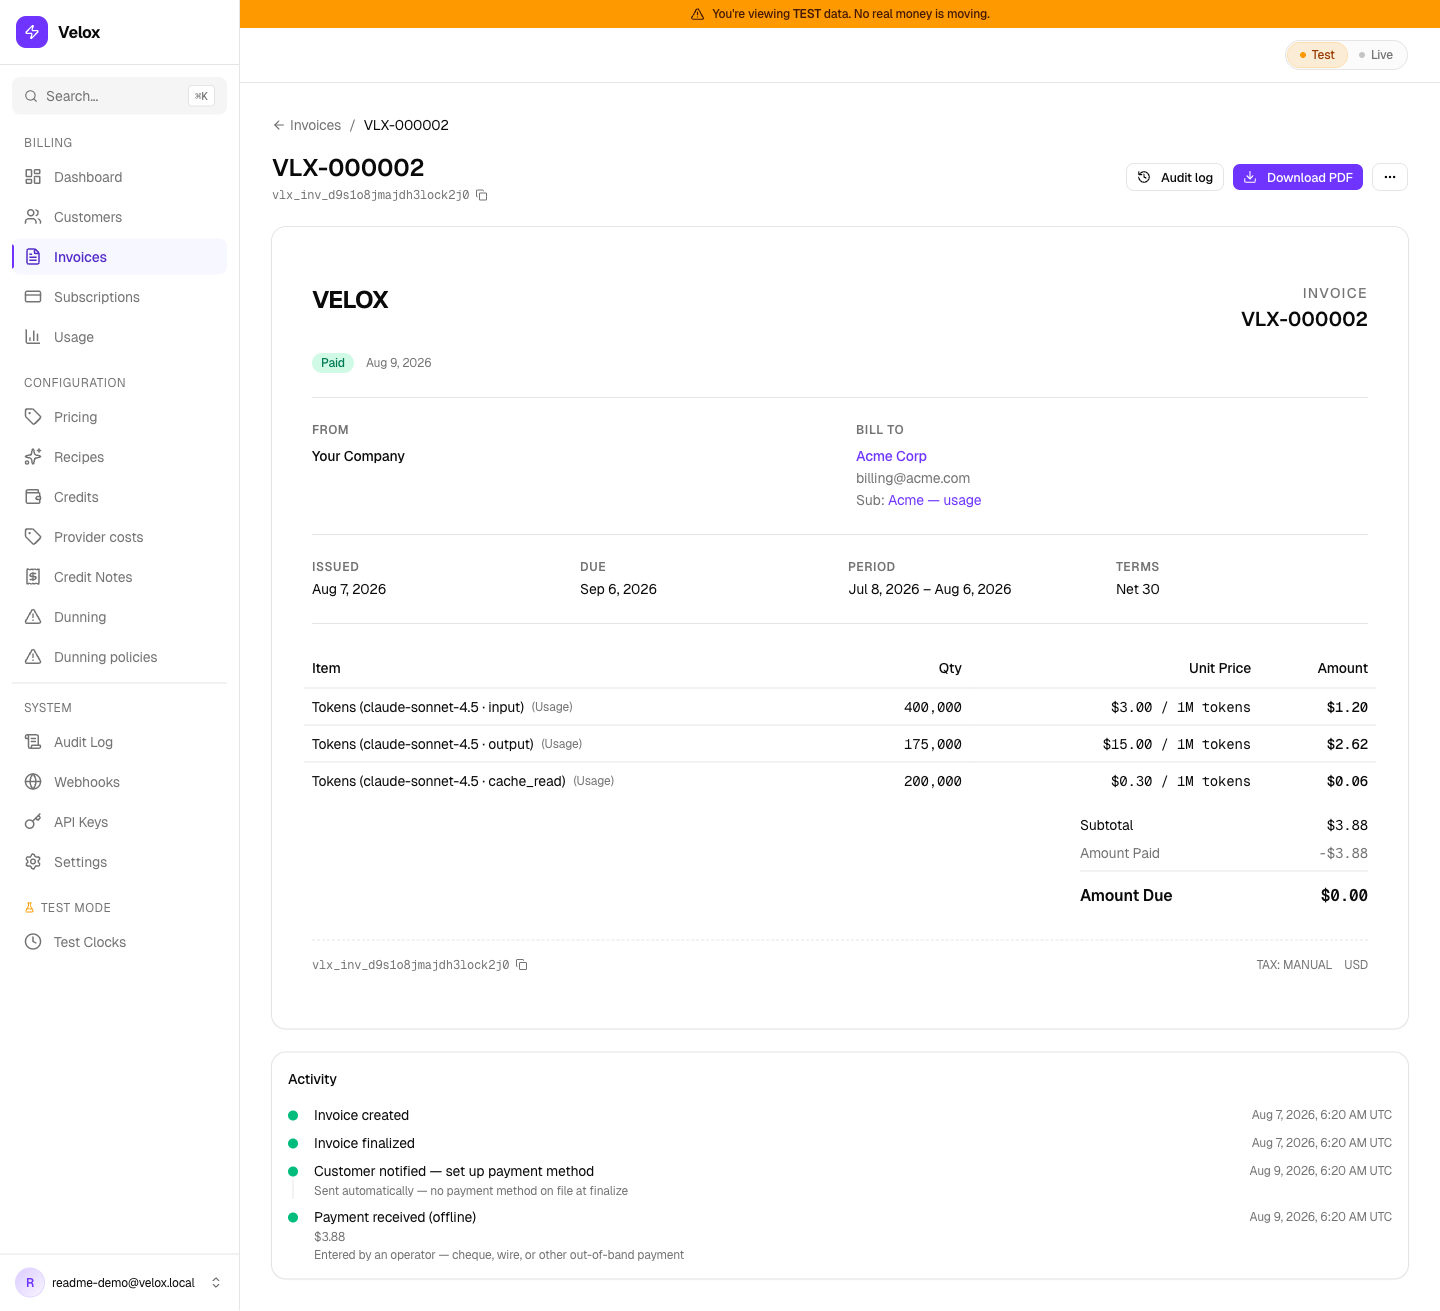
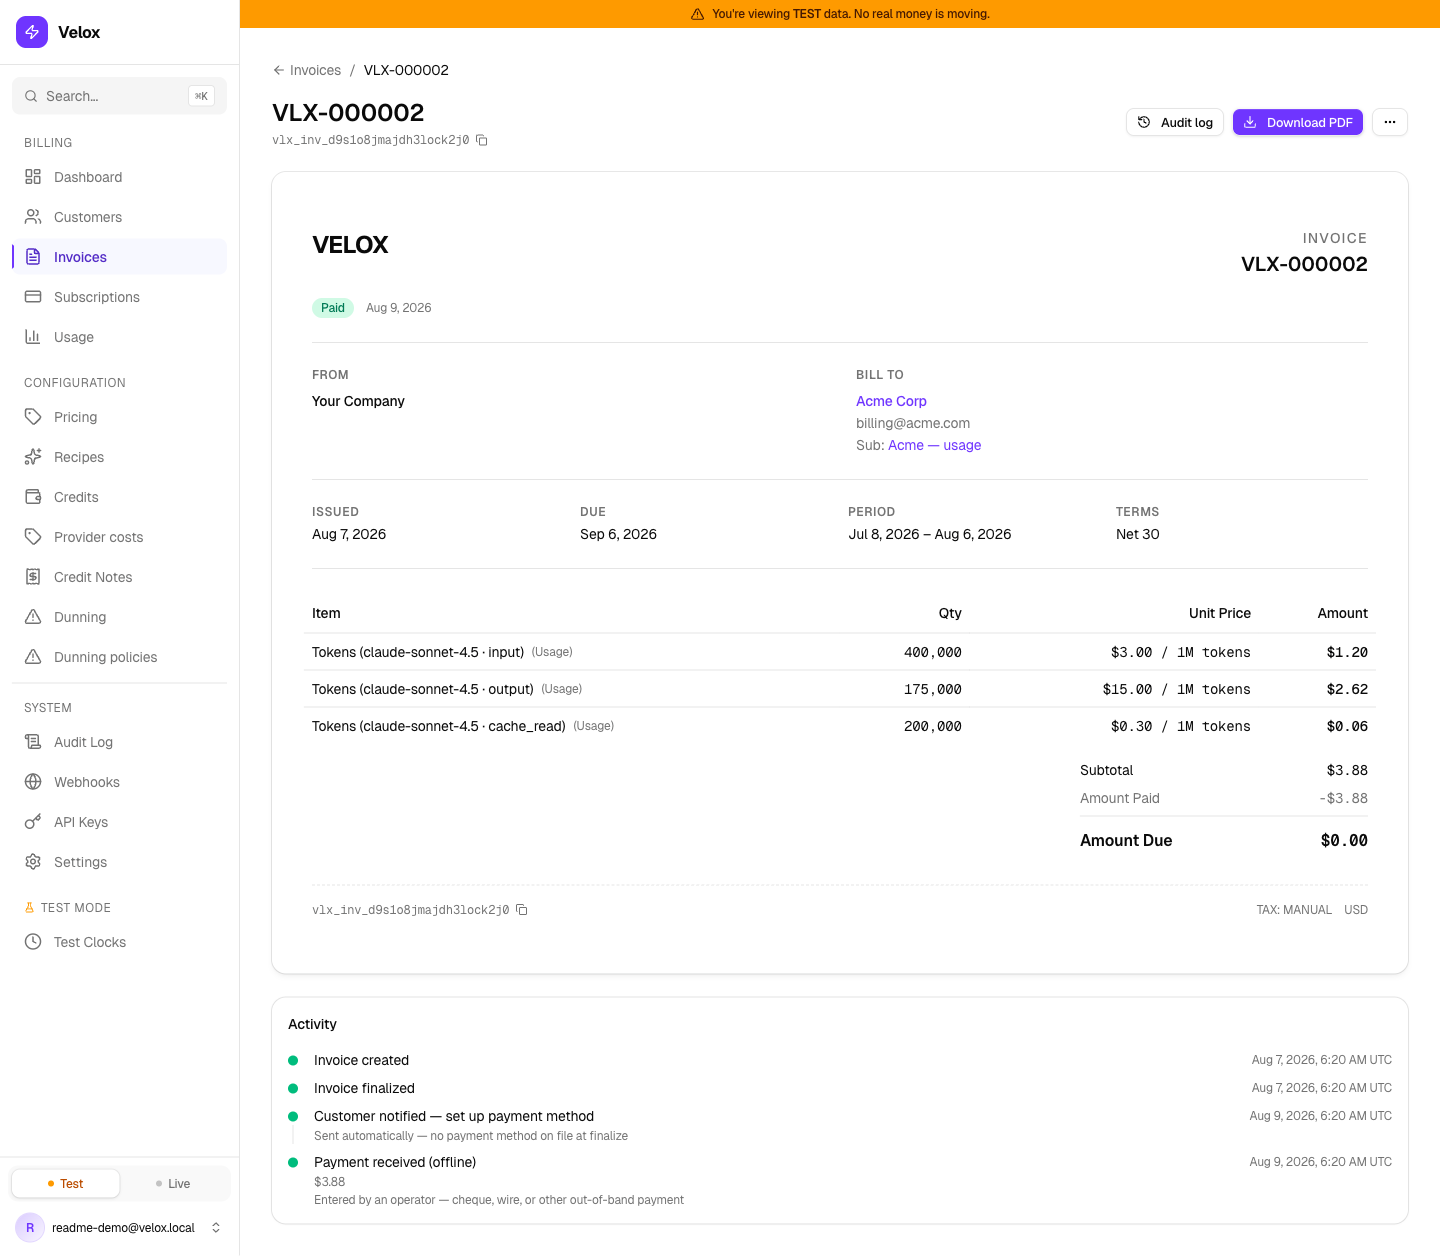
fix(ui): mode toggle moves to the sidebar; the empty top-bar row is gone (#768)
* fix(ui): the mode toggle moves to the sidebar; the empty top-bar row is gone

A reader reviewing the README hero asked why the band under the mode
banner was so tall — twice, after two rounds of screenshot fixes. The
band was real product chrome: a full-width top-bar row whose only
desktop occupant was the Test/Live pill, spending ~85px of every page
on one right-aligned control. Padding tuning bought ~20px and looked
identical; the only real fix was the row not existing.

Placement was chosen against two constraints the obvious spots fail:
- NOT the test-only nav section: it unmounts in live mode (stranding
  the way back to test), and a section headed "Test mode" cannot host
  a control whose other half is Live — the reader caught this
  contradiction in the first mock.
- The sidebar bottom, directly above the account block, passes both:
  it renders in both modes, the sidebar is fixed so the mode is always
  visible, and the account block already reads "Test mode/Live mode" —
  switch next to session identity, one coherent cluster.

Mobile keeps the top row for the hamburger; the toggle rides the
drawer. The orange test-mode banner and the live-mode Stripe hard
blocker are untouched and remain the loud signals.

Verified live in both directions: test → live (red hard-blocker banner
renders, test-only nav unmounts, toggle persists in sidebar, test-mode
invoice correctly unfindable) and live → test. README hero regenerated
[…]

diff --git a/web-v2/src/components/Layout.tsx b/web-v2/src/components/Layout.tsx
@@ -135,7 +135,7 @@ function NavLink({
 // session; every downstream API call inherits the new mode via session
 // middleware.
 function ModeToggle({ livemode, busy, onToggle }: { livemode: boolean; busy: boolean; onToggle: () => void }) {
-  const segment = (active: boolean, label: 'Test' | 'Live', activeColor: string) => (
+  const segment = (active: boolean, label: 'Test' | 'Live', activeText: string) => (
     <button
       type="button"
       role="radio"
@@ -144,28 +144,46 @@ function ModeToggle({ livemode, busy, onToggle }: { livemode: boolean; busy: boo
       disabled={busy || active}
       onClick={() => { if (!active) onToggle() }}
       className={cn(
-        'flex items-center gap-1.5 rounded-full px-3 py-1 text-xs font-medium transition-colors',
-        active
-          ? activeColor
-          : 'text-muted-foreground hover:text-foreground hover:bg-accent cursor-pointer',
+        // Segments are transparent hit-targets layered OVER the sliding
+        // thumb below; z-10 keeps labels above it.
+        'relative z-10 flex flex-1 items-center justify-center gap-1.5 rounded-md px-3 py-1.5 text-xs font-medium transition-colors duration-200',
+        active ? activeText : 'text-muted-foreground hover:text-foreground cursor-pointer',
         busy && !active && 'opacity-50 cursor-not-allowed',
       )}
     >
       {busy && active ? (
         <Loader2 size={11} className="animate-spin" aria-hidden="true" />
       ) : (
-        <span className={cn(
-          'h-1.5 w-1.5 rounded-full',
-          active ? (label === 'Live' ? 'bg-emerald-500' : 'bg-amber-500') : 'bg-muted-foreground/40',
-        )} />
+        <span
+          className={cn(
+            'h-1.5 w-1.5 rounded-full transition-colors duration-200',
+            active ? (label === 'Live' ? 'bg-emerald-500' : 'bg-amber-500') : 'bg-muted-foreground/40',
+            // Live is real money moving — the dot breathes like a record
+            // light. Test stays still.
+            active && label === 'Live' && 'animate-pulse',
+          )}
+        />
       )}
       {label}
     </button>
   )
   return (
-    <div role="radiogroup" aria-label="Test or live mode" className="flex items-center rounded-full border border-border bg-muted/40 p-0.5">
-      {segment(!livemode, 'Test', 'bg-amber-500/15 text-amber-800 dark:text-amber-300 ring-1 ring-amber-500/30')}
-      {segment(livemode, 'Live', 'bg-emerald-500/15 text-emerald-700 dark:text-emerald-400 ring-1 ring-emerald-500/30')}
+    <div role="radiogroup" aria-label="Test or live mode" className="relative flex w-full items-center rounded-lg bg-muted/60 p-1">
+      {/* The sliding thumb: one raised surface that TRAVELS between the two
+          positions (200ms ease-out) instead of two segments swapping
+          backgrounds — the segmented-control motion language of iOS/Linear.
+          Width is half the track minus the 4px padding ring; translate-x
+          moves it exactly one thumb-width. */}
+      <span
+        aria-hidden="true"
+        className={cn(
+          'absolute left-1 top-1 bottom-1 w-[calc(50%-4px)] rounded-md bg-card shadow-sm ring-1 ring-black/5 dark:ring-white/10',
+          'transition-transform duration-200 ease-out',
+          livemode && 'translate-x-full',
+        )}
+      />
+      {segment(!livemode, 'Test', 'text-amber-700 dark:text-amber-300')}
+      {segment(livemode, 'Live', 'text-emerald-700 dark:text-emerald-400')}
     </div>
   )
 }
@@ -341,11 +359,27 @@ export function Layout({ children }: { children: ReactNode }) {
         )}
       </ScrollPane>
 
-      {/* Footer — enterprise account menu. Trigger row shows identity +
-          chevron; dropdown (opens upward) surfaces theme toggle and sign-out
-          in a full-bleed menu, matching Linear/Vercel/Notion. Version tag
-          lives inside the menu so the sidebar itself stays lean. */}
-      <div className="p-2 border-t border-border">
+      {/* Mode switch — session context, so it sits with the session-identity
+          block below rather than in the nav. Deliberately NOT inside the
+          test-only nav section: a section headed "Test mode" cannot host the
+          control whose other half is Live (and that section unmounts in live
+          mode, which would strand the way back). Living in the fixed sidebar
+          also retires the top-bar row this pill used to occupy — a full-width
+          band that was empty except for this one control, spending ~85px of
+          every page on nothing. */}
+      {/* Footer — one session cluster behind a single border: the mode
+          switch (which environment am I acting in) directly above the
+          account menu (who am I). Full-width segmented control, raised
+          active segment — the sidebar's version of Stripe's top-bar
+          toggle, styled to the Linear/Vercel weight of the footer. */}
+      <div className="p-2 border-t border-border space-y-1.5">
+        {user && (
+          <ModeToggle
+            livemode={user.livemode}
+            busy={modeBusy}
+            onToggle={handleToggleMode}
+          />
+        )}
         {user && (
           <DropdownMenu>
             <DropdownMenuTrigger
@@ -490,33 +524,22 @@ export function Layout({ children }: { children: ReactNode }) {
               </span>
             </div>
           )}
-          {/* Top bar — always visible. Mobile adds a hamburger, desktop leaves
-              the left empty; the right carries the Test/Live toggle.
-              The BAR spans full width (its border is the chrome's edge), but
-              its CONTENTS ride the same band as the page below — otherwise the
-              mode toggle drifts to the viewport edge and reads as belonging to
-              nothing. Measured before this: toggle right edge 2544 vs content
-              right edge 2040 on a 2560px viewport. */}
-          <div className="border-b border-border bg-card">
-            <div className={cn(CONTENT_BAND, 'flex items-center gap-3 px-4 md:px-8 py-3')}>
+          {/* Top bar — MOBILE ONLY (hamburger + logo). On desktop this row
+              no longer exists: its only occupant was the mode toggle, which
+              made it a full-width band that was ~85px of empty chrome on
+              every page (a reader reviewing the README hero caught it). The
+              toggle now lives in the fixed sidebar above the account block;
+              the mode BANNER above stays sticky and is the loud signal. */}
+          <div className="md:hidden border-b border-border bg-card">
+            <div className={cn(CONTENT_BAND, 'flex items-center gap-3 px-4 py-3')}>
               <button
                 onClick={() => setSidebarOpen(true)}
                 aria-label="Open menu"
-                className="md:hidden text-muted-foreground hover:text-foreground"
+                className="text-muted-foreground hover:text-foreground"
               >
                 <Menu size={22} />
               </button>
-              <div className="md:hidden">
-                <VeloxLogo size="sm" />
-              </div>
-              <div className="flex-1" />
-              {user && (
-                <ModeToggle
-                  livemode={user.livemode}
-                  busy={modeBusy}
-                  onToggle={handleToggleMode}
-                />
-              )}
+              <VeloxLogo size="sm" />
             </div>
           </div>
         </div>

diff --git a/web-v2/src/components/ui/button.tsx b/web-v2/src/components/ui/button.tsx
@@ -9,11 +9,19 @@ const buttonVariants = cva(
   {
     variants: {
       variant: {
-        default: "bg-primary text-primary-foreground [a]:hover:bg-primary/80",
+        default:
+          // Premium-tier primary: subtle lift (shadow-sm) + a hairline inner
+          // top highlight for depth, and a UNIVERSAL hover darken — the old
+          // rule ([a]:hover:) only fired on anchor-rendered buttons, so real
+          // <button> primaries gave no hover feedback anywhere in the app.
+          "bg-primary text-primary-foreground shadow-sm inset-shadow-[0_1px_0_0_rgba(255,255,255,0.12)] hover:bg-primary/90 active:shadow-none",
         outline:
-          "border-border bg-background hover:bg-muted hover:text-foreground aria-expanded:bg-muted aria-expanded:text-foreground dark:border-input dark:bg-input/30 dark:hover:bg-input/50",
+          // Soft-raised secondary (Vercel-style): sits a hair above the page
+          // via shadow-xs, settles flat on press (active:shadow-none pairs
+          // with the base translate-y-px).
+          "border-border bg-background shadow-xs hover:bg-muted hover:text-foreground active:shadow-none aria-expanded:bg-muted aria-expanded:text-foreground dark:border-input dark:bg-input/30 dark:hover:bg-input/50",
         secondary:
-          "bg-secondary text-secondary-foreground hover:bg-secondary/80 aria-expanded:bg-secondary aria-expanded:text-secondary-foreground",
+          "bg-secondary text-secondary-foreground shadow-xs hover:bg-secondary/80 active:shadow-none aria-expanded:bg-secondary aria-expanded:text-secondary-foreground",
         ghost:
           "hover:bg-muted hover:text-foreground aria-expanded:bg-muted aria-expanded:text-foreground dark:hover:bg-muted/50",
         destructive:

diff --git a/MANUAL_TEST.md b/MANUAL_TEST.md
@@ -340,7 +340,7 @@ Single tenant-wide timezone used for date input and timestamp display
 
 ## FLOW A3: Test/Live mode toggle
 
-- [x] Top-right pill: amber "Test mode" default. Click → emerald "Live mode"; toast "Switched to live mode". *(walked — and the toast half was a REAL BUG, found only because the screenshot showed no toast where the code clearly called `toast.success`. `<Toaster>` sat inside `ModeAwareQueryProvider`, which is keyed on livemode to force a remount; the toggle unmounted the Toaster in the same commit that fired the toast, and Sonner's remounted Toaster starts empty. Control/treatment on one detector settled it: a customer-create toast rendered and persisted 3s, while the mode toggle produced no toaster element on 3 independent attempts. Fixed by hoisting `<Toaster>` out of the keyed subtree; both directions now toast, screenshot-confirmed.)*
+- [x] Sidebar mode pill (bottom, above the account block — moved from the top-right 2026-08-09; the old top-bar row was ~85px of empty chrome on every desktop page, and the toggle can't live in the test-only nav section since that section unmounts in live mode and a "Test mode" heading can't host a control whose other half is Live): amber "Test" default. Click → emerald "Live"; toast "Switched to live mode". *(walked — and the toast half was a REAL BUG, found only because the screenshot showed no toast where the code clearly called `toast.success`. `<Toaster>` sat inside `ModeAwareQueryProvider`, which is keyed on livemode to force a remount; the toggle unmounted the Toaster in the same commit that fired the toast, and Sonner's remounted Toaster starts empty. Control/treatment on one detector settled it: a customer-create toast rendered and persisted 3s, while the mode toggle produced no toaster element on 3 independent attempts. Fixed by hoisting `<Toaster>` out of the keyed subtree; both directions now toast, screenshot-confirmed.)*
 - [x] **Stays on the same page** (no nav). On `/customers`, `/invoices`, `/audit-log`, `/usage`, `/credits`, `/dunning`, `/webhooks/events` — the page rerenders with the new mode's rows in place. *(walked across all seven paths in one sweep — every one stayed put.)*
 - [x] **Back-and-forth is fast**: toggle Test→Live, scroll the list; toggle Live→Test → prior cache renders instantly (no spinner) before any background refetch. *(walked with both caches pre-primed: rows swapped 14→1 inside the first 120ms sample and 1→14 within ~240ms, with **zero** skeleton frames. First attempt reported a skeleton — a false positive, because Sonner toasts carry `role="status"` and my selector matched the toast, not a loader.)*
 - [x] Mode-scoped pages reflect the new mode after toggle (no stale rows): Customers, Invoices, Subscriptions, API Keys, Audit Log, Usage Events, Credits, Credit Notes, Dunning, Pricing (plans / meters / rating rules), Webhooks (endpoints + event stream), Dashboard (MRR / active customers / recent invoices), **Settings → Payments** (Stripe credentials are keyed `(tenant_id, livemode)` — toggling swaps the connected-state card, masked secret, webhook-secret state, and the "Stripe — test/live mode" header). *(walked: customers 14 rows (test) vs 1 (live), and the sidebar's invoice links differ per mode. Settings → Payments swaps in full — test shows "Stripe — test mode" / `dashboard.stripe.com/test/apikeys` / "Safe to experiment — no real money moves."; live shows "Stripe — live mode" / `dashboard.stripe.com/apikeys` / "Production Stripe keys — real charges." Note this box was **unwalkable before the `?tab=` fix below** — the toggle dropped you onto General.)*

diff --git a/CHANGELOG.md b/CHANGELOG.md
@@ -11,6 +11,11 @@ frozen; breaking changes land on MINOR until `1.0.0`.
 
 ## [Unreleased]
 
+### Changed
+
+- **The Test/Live switch looks and feels like a modern control (2026-08-09).** One raised surface now slides between Test and Live instead of the two sides swapping colors, and in Live mode the green dot gently pulses — a quiet reminder that real money is moving. Buttons across the app also gained subtle depth and a proper hover response; primary buttons previously gave no visual feedback on hover at all.
+- **The Test/Live switch moved into the sidebar, next to your account (2026-08-09).** It used to sit alone in a top bar whose only job was holding it — a full-width empty band under the mode banner on every page. The switch now lives at the bottom of the sidebar above the account block (which already shows which mode you're in), where it stays visible in both modes; the orange test-mode banner is unchanged. On phones, the top bar remains for the menu button, and the switch is inside the menu.
+
 ### Added
 
 - **Token rates now read the way the industry quotes them (2026-08-09).** Invoice surfaces — the operator dashboard, the customer-facing hosted page, and the PDF — display token unit prices per million ("$3.00 / 1M tokens") instead of the per-token form ("$0.000003"), matching how Anthropic, OpenAI, and Metronome all list rates and how the Pricing section already displayed them. Nothing about the math changed: rates are stored and billed at exact per-unit precision; only the label moved. Existing invoices were converted in place.
